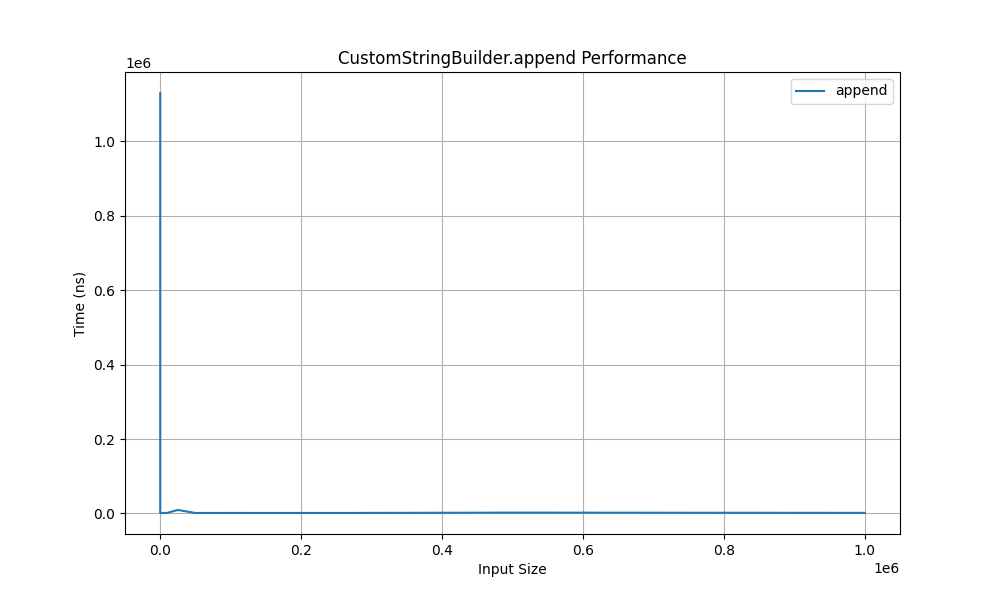
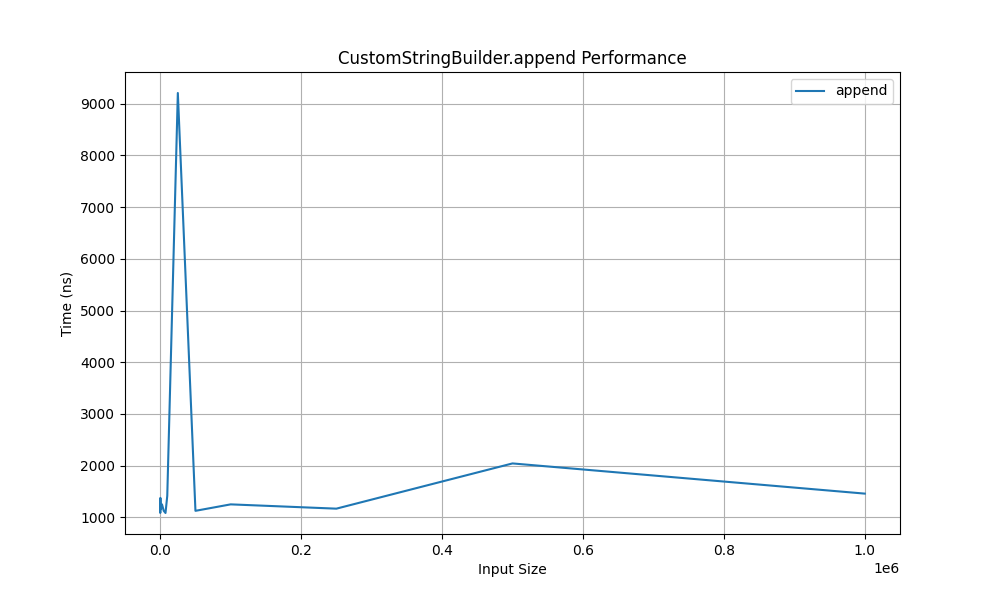
updating performance tests

diff --git a/PerformanceTesting/CustomStringBuilder/CustomStringBuilderPerformanceTest.py b/PerformanceTesting/CustomStringBuilder/CustomStringBuilderPerformanceTest.py
@@ -1,0 +1,65 @@
+import matplotlib.pyplot as plt
+import numpy as np
+import csv
+
+sizes = []
+append_times = []
+insert_times = []
+delete_times = []
+replace_times = []
+reverse_times = []
+index_of_times = []
+last_index_of_times = []
+to_string_times = []
+substring_times = []
+
+with open('/Users/drpsychoben/PycharmProjects/StringBuilderCharts/CustomStringBuilder/CustomStringBuilder_performance.csv', 'r') as csvfile:
+    reader = csv.DictReader(csvfile)
+    for row in reader:
+        sizes.append(int(row['Size']))
+        append_times.append(int(row['Append']))
+        insert_times.append(int(row['Insert']))
+        delete_times.append(int(row['Delete']))
+        replace_times.append(int(row['Replace']))
+        reverse_times.append(int(row['Reverse']))
+        index_of_times.append(int(row['IndexOf']))
+        last_index_of_times.append(int(row['LastIndexOf']))
+        to_string_times.append(int(row['ToString']))
+        substring_times.append(int(row['Substring']))
+
+# Convert lists to numpy arrays
+sizes = np.array(sizes)
+append_times = np.array(append_times)
+insert_times = np.array(insert_times)
+delete_times = np.array(delete_times)
+replace_times = np.array(replace_times)
+reverse_times = np.array(reverse_times)
+index_of_times = np.array(index_of_times)
+last_index_of_times = np.array(last_index_of_times)
+to_string_times = np.array(to_string_times)
+substring_times = np.array(substring_times)
+
+methods = [
+    ("append", append_times),
+    ("insert", insert_times),
+    ("delete", delete_times),
+    ("replace", replace_times),
+    ("reverse", reverse_times),
+    ("indexOf", index_of_times),
+    ("lastIndexOf", last_index_of_times),
+    ("toString", to_string_times),
+    ("substring", substring_times),
+]
+
+for method_name, times in methods:
+    plt.figure(figsize=(10, 6))
+    plt.plot(sizes, times, marker='', linestyle='-', label=method_name, linewidth=1.5)
+    plt.xlabel('Input Size')
+    plt.ylabel('Time (ns)')
+    plt.title(f'CustomStringBuilder.{method_name} Performance')
+    plt.grid(True)
+    plt.legend()
+    plt.savefig(f'{method_name}_performance.png')
+    plt.close()
+
+print("Charts generated: " + ", ".join(f"{name}_performance.png" for name, _ in methods))

diff --git a/PerformanceTesting/CompareCustomStringBuilderToStringBuilder/compare.py b/PerformanceTesting/CompareCustomStringBuilderToStringBuilder/compare.py
@@ -1,5 +1,4 @@
 import matplotlib.pyplot as plt
-import numpy as np
 import csv
 
 def read_csv(filename):
